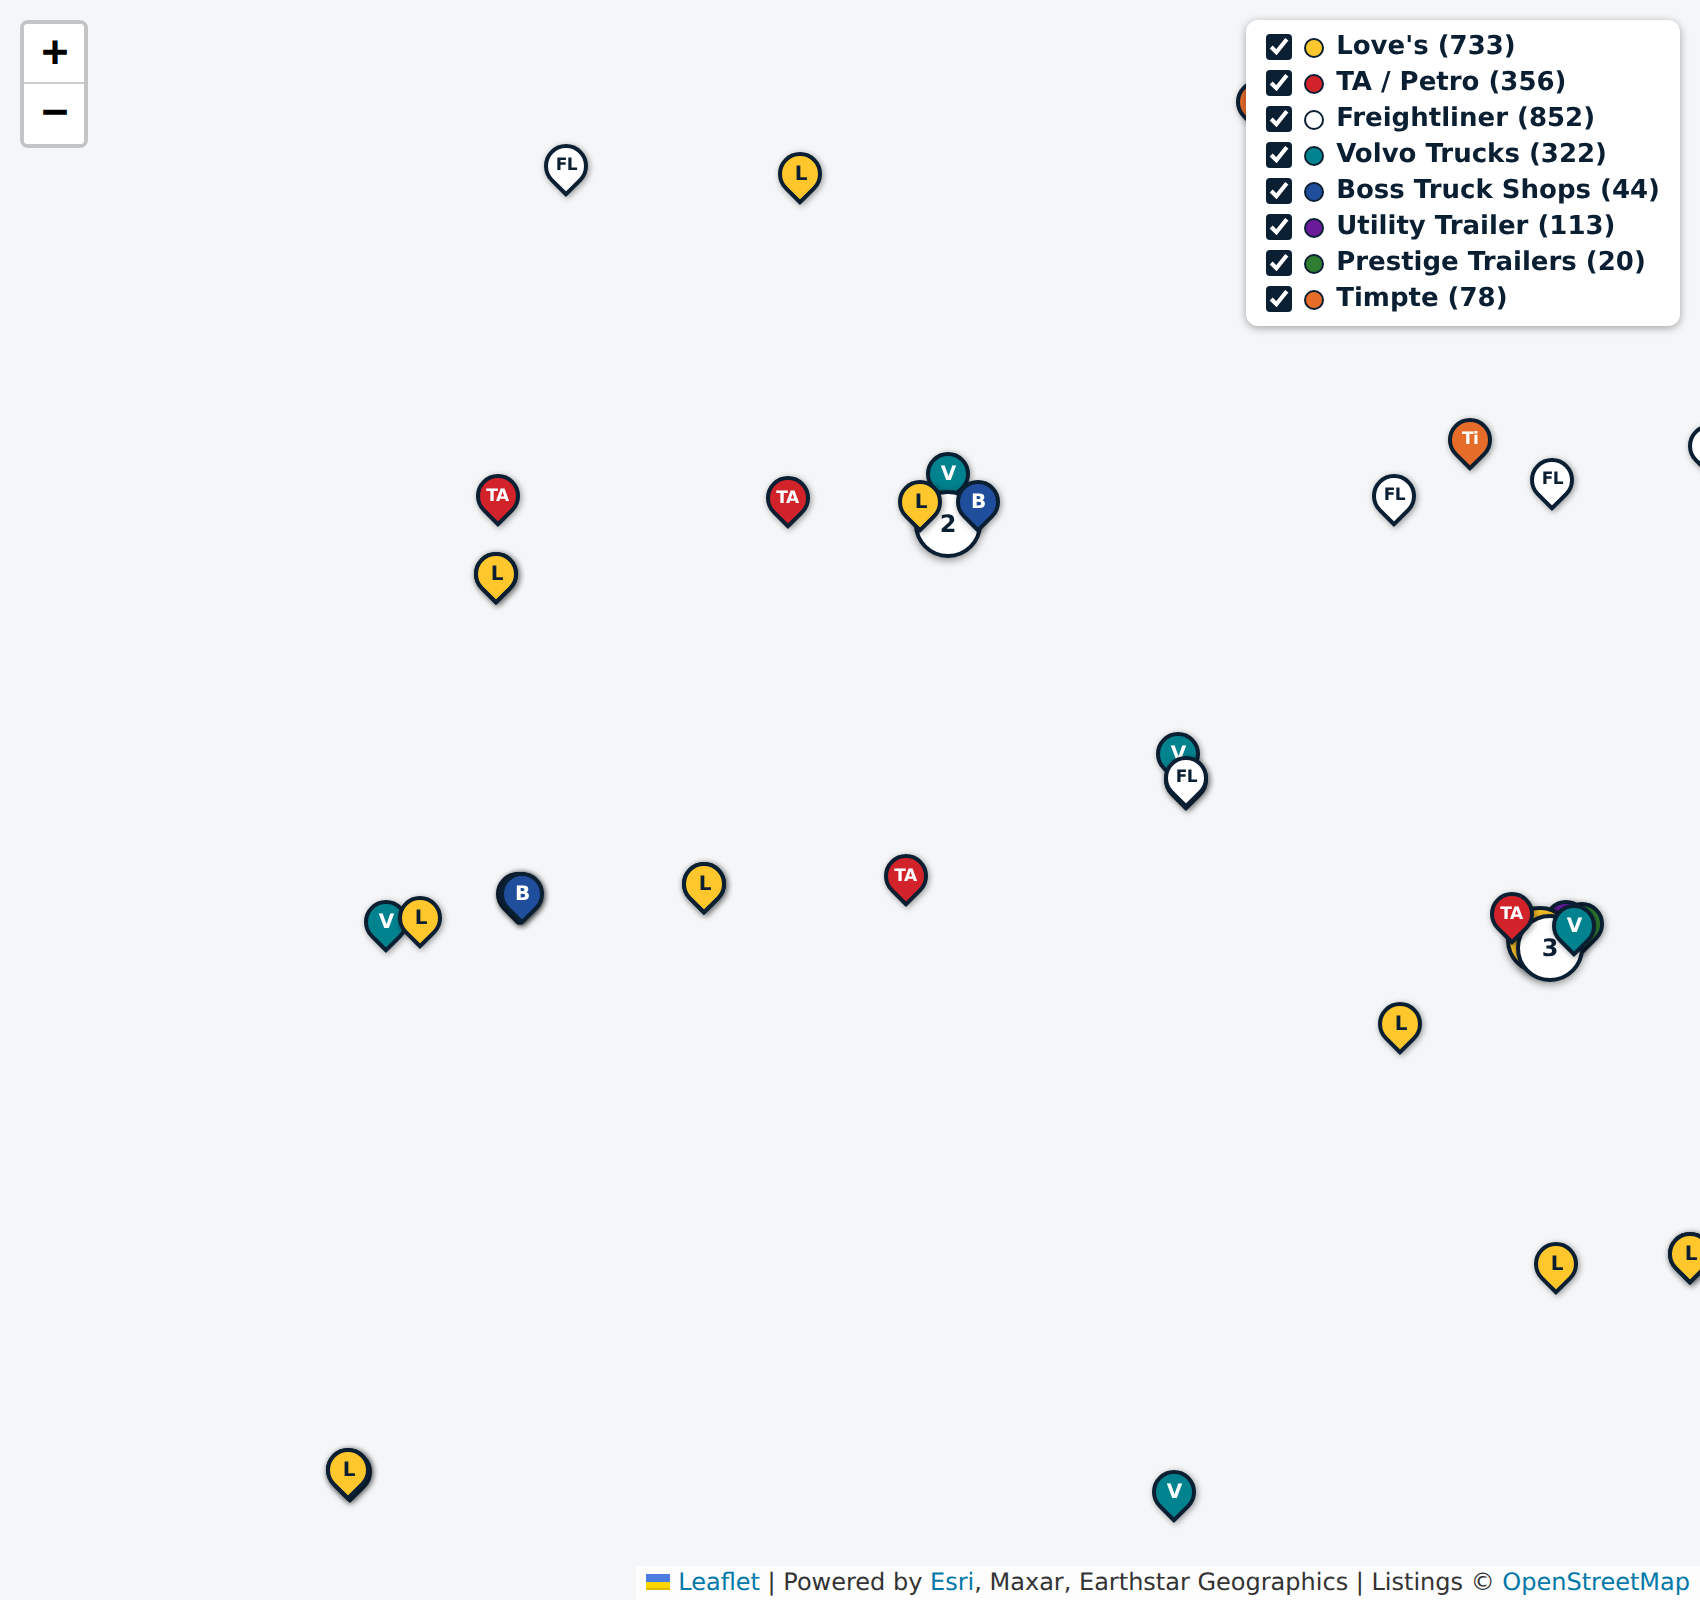
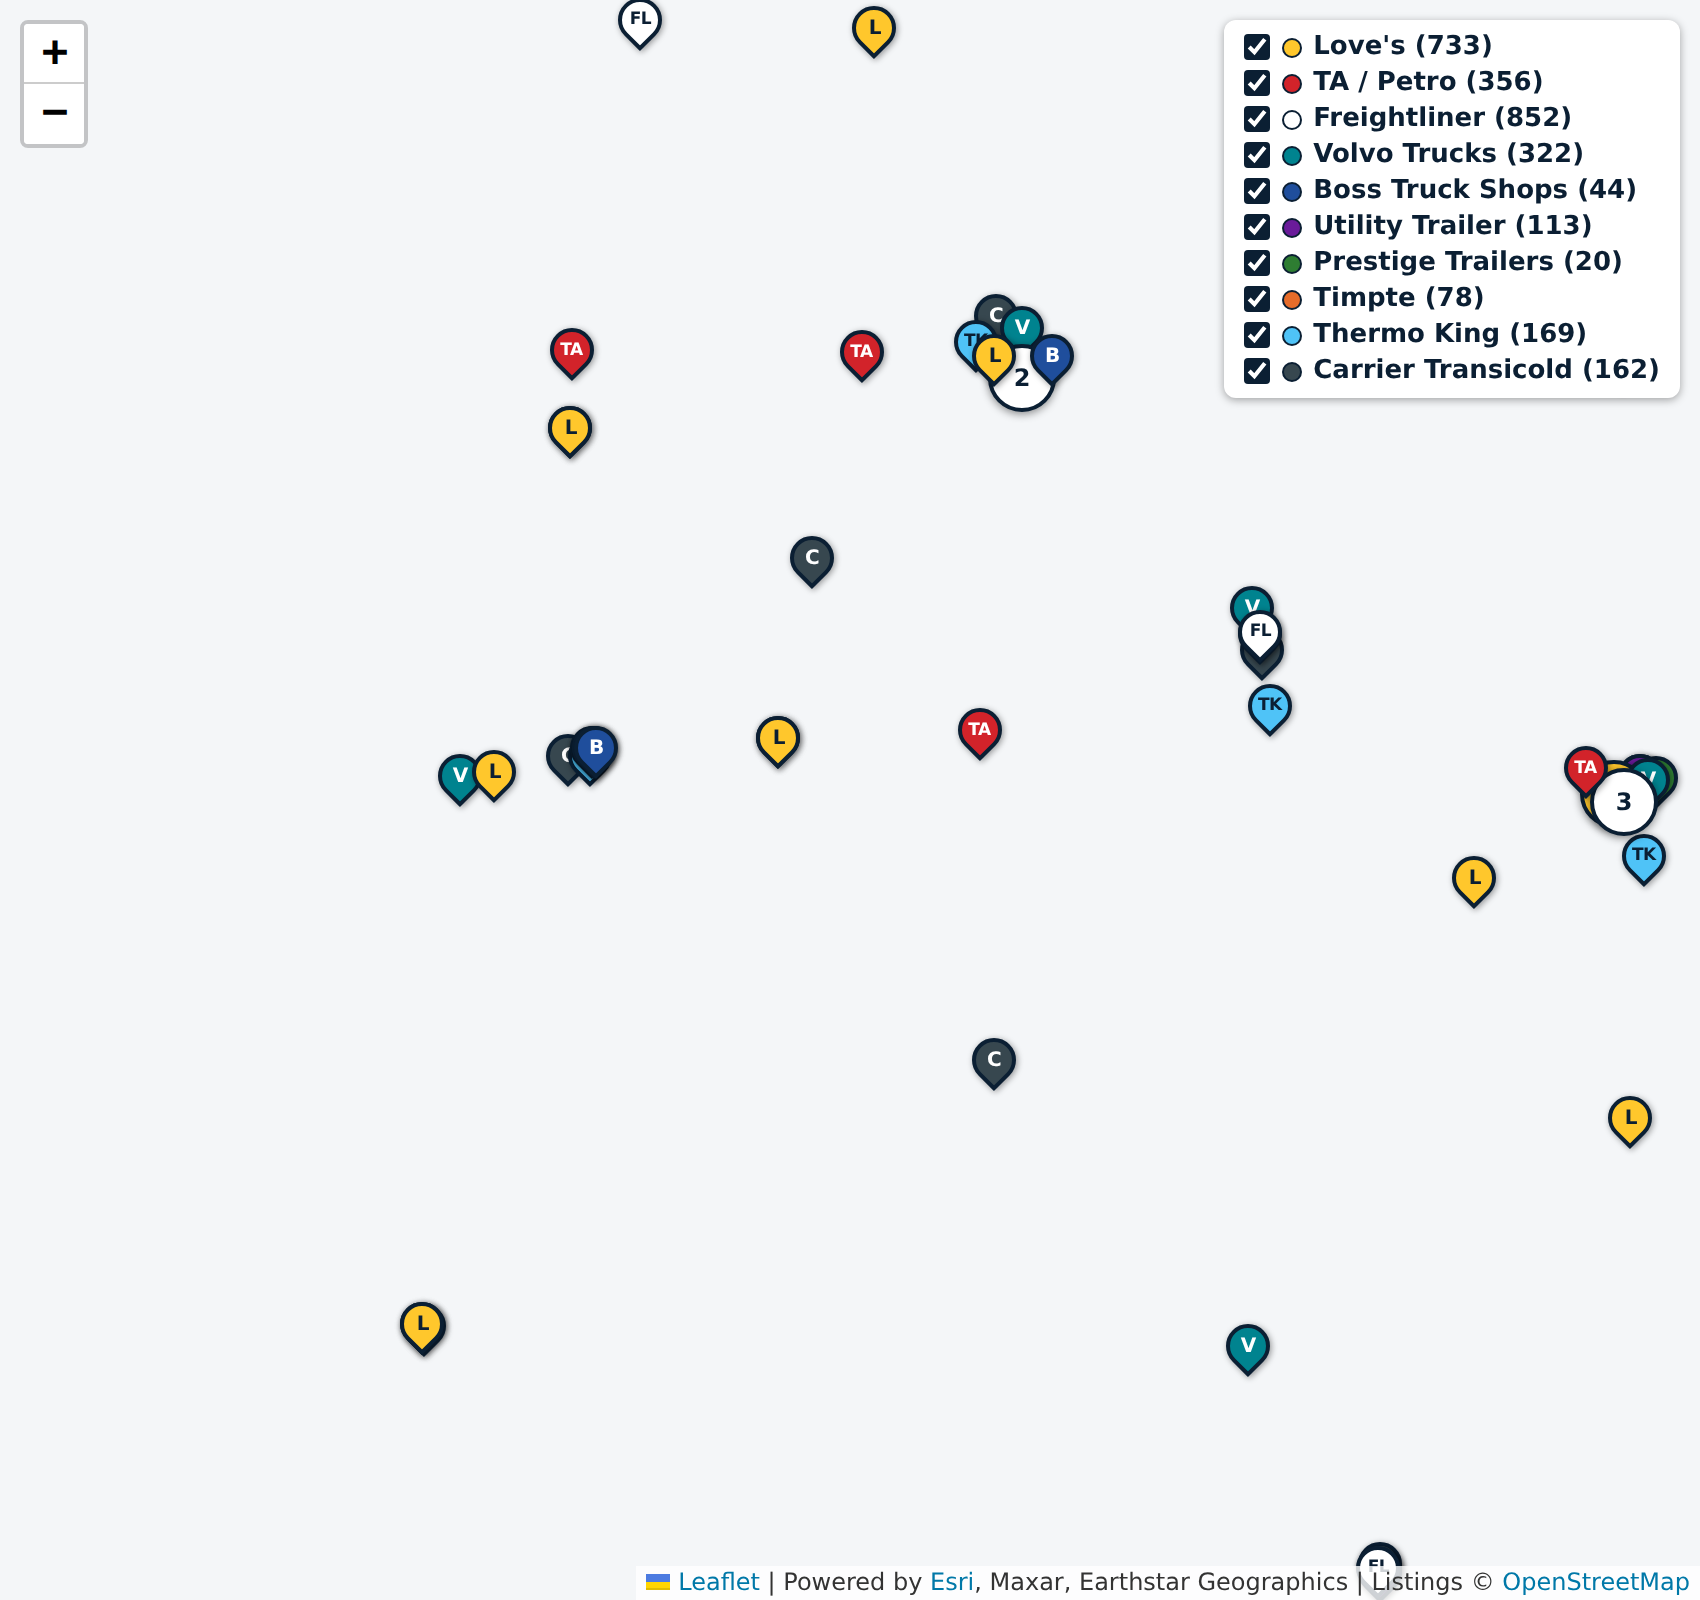
Document the Thermo King and Carrier layers with screenshots
Claude-Session: https://claude.ai/code/session_0134BwgEtHejD4CoadjYPrJ5

diff --git a/README.md b/README.md
@@ -29,6 +29,8 @@ When a truck breaks down, a driver or dispatcher has to find a shop that can han
 - **Utility Trailer dealers** as purple U pins, with trailer repair, parts, Cargobull service and sales from Utility's dealer directory.
 - **Prestige Trailers dealers** as green P pins. Prestige's list doesn't say which dealers do repairs, so the popup says to call.
 - **Timpte** as orange Ti pins: Timpte's own Factory Direct Customer Support Centers (trailer repair for all makes) and Timpte equipment trailer dealers.
+- **Thermo King dealers** as light blue **TK** pins, for reefer and APU work. Popups show the services offered, whether the dealer is Blue Track (Thermo King's top service level), 24-hour mobile service, drop yard and hours.
+- **Carrier Transicold dealers** as charcoal **C** pins, including **ComfortPro APU** dealers. Popups say whether the dealer does APUs, reefer service, mobile service and 24/7, plus hours and dealer level.
 - A box at the top right of the map turns each brand on or off.
 - **Fix this listing** link on every result, so anyone can correct the data on OpenStreetMap.
 - Works on phones, with light and dark themes.
@@ -40,6 +42,8 @@ When a truck breaks down, a driver or dispatcher has to find a shop that can han
 <img src="screenshots/brand-popups.png" alt="Popups for a TA with eShop 2.0, a TA with the original eShop, a Freightliner dealer and a Volvo dealer" width="820">
 
 <img src="screenshots/trailer-popups.png" alt="Popups for a Boss Truck Shop, a Utility Trailer dealer, a Prestige dealer and a Timpte support center" width="820">
+
+<img src="screenshots/reefer-popups.png" alt="Popups for a Thermo King Blue Track dealer, a Carrier Transicold dealer and a Carrier mobile dealer" width="820">
 
 <img src="screenshots/brand-pins.png" alt="Brand pins with the brand on/off box" width="520">
 
@@ -76,10 +80,14 @@ The [Update brand locations](.github/workflows/update-vendors.yml) workflow runs
 | `data/utility.json` | Utility Trailer's dealer directory (utilitytrailer.com/dealers), U.S. dealers only | `scripts/update-utility.mjs` |
 | `data/prestige.json` | Prestige's Find a Dealer feed (prestigetrailers.com/shopping-tools-find-dealer), public U.S. dealers only | `scripts/update-prestige.mjs` |
 | `data/timpte.json` | Timpte's dealer locator (timpteequipmenttrailers.com/find-a-dealer) | `scripts/update-timpte.mjs` |
+| `data/thermoking.json` | Every U.S. dealer page in the thermoking.com/dealers directory | `scripts/update-thermoking.mjs` |
+| `data/carrier.json` | Carrier Transicold's dealer locator feed (locator.ttdealers.carrier.com), U.S. dealers only | `scripts/update-carrier.mjs` |
 
 Freightliner's locator often gives coordinates only to the ZIP code, so ExpressPoint sites take Love's exact coordinates and other addresses are placed with the free U.S. Census geocoder. A few addresses the geocoder can't match keep Freightliner's coordinates and may sit a short distance from the real building.
 
-Prestige's feed URL includes a site key, so the script reads it from Prestige's own page at run time instead of storing it here, and it keeps only business fields (no staff names or emails). Timpte's main site (timpte.com/locations) would also list Super Hopper grain trailer dealers, but its search currently returns nothing, so only the support centers and equipment trailer dealers are shown.
+Prestige's feed URL includes a site key, so the script reads it from Prestige's own page at run time instead of storing it here, and it keeps only business fields (no staff names or emails). Thermo King's directory lists marine-only and bus-only locations too; those are left out, so the map shows the dealers that work on trucks and trailers. Some Carrier dealers are mobile-only with no shop address, and their pin marks the area they cover rather than a building. Carrier's feed URL carries an app key, which the script reads from the locator's own script at run time instead of storing it here.
+
+Timpte's main site (timpte.com/locations) would also list Super Hopper grain trailer dealers, but its search currently returns nothing, so only the support centers and equipment trailer dealers are shown.
 
 ## Limits to know about
 
